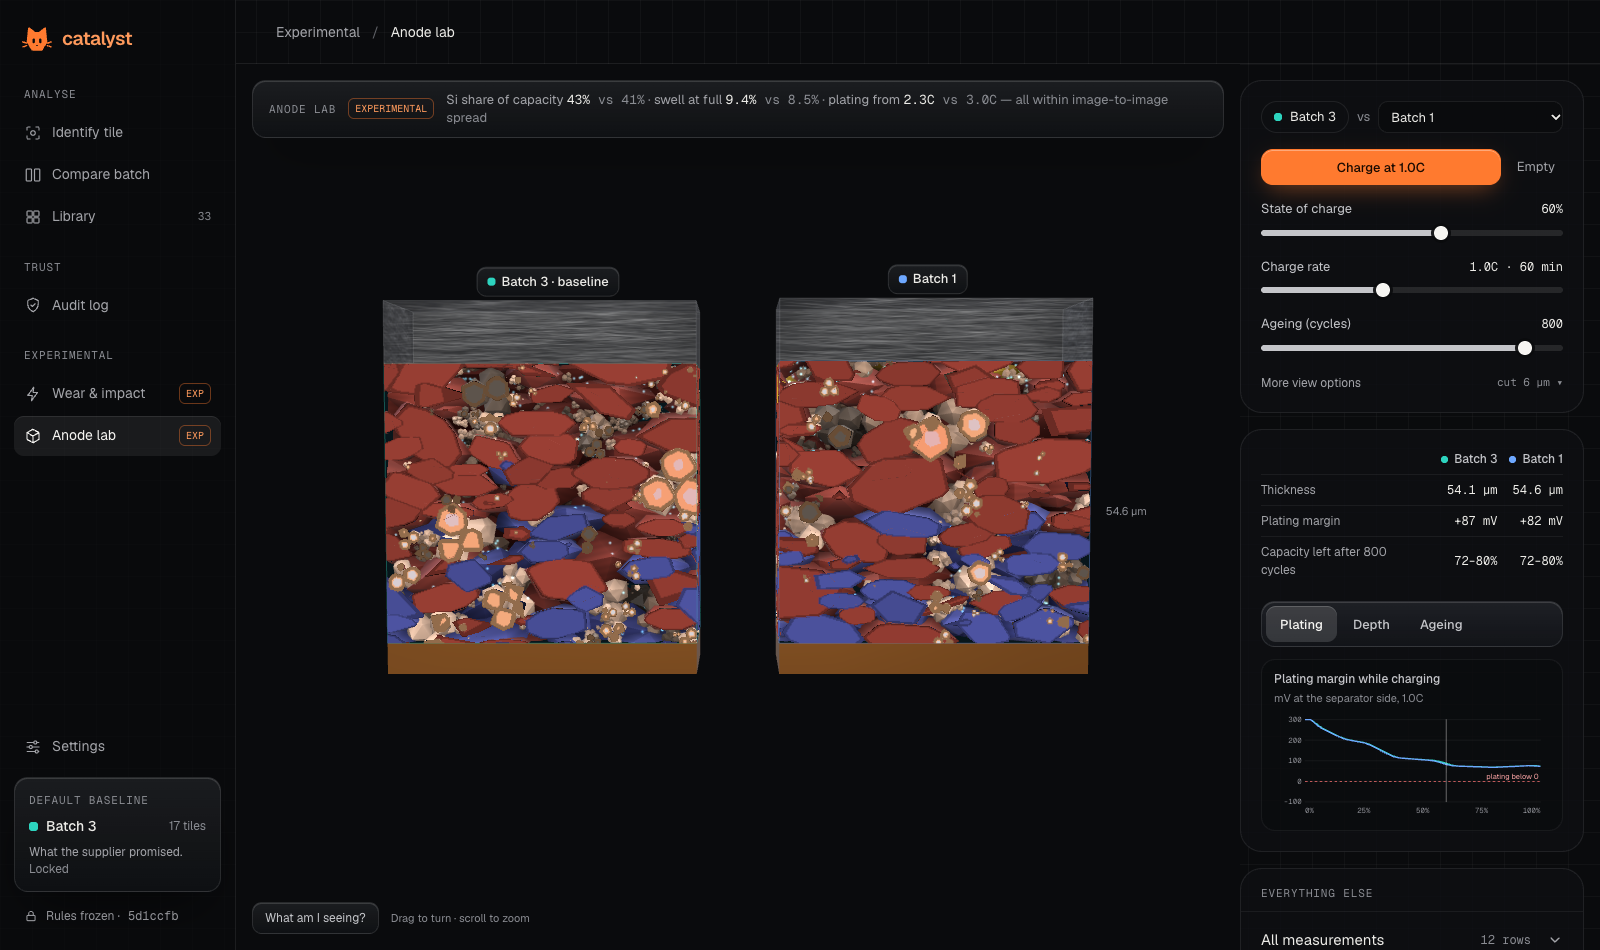
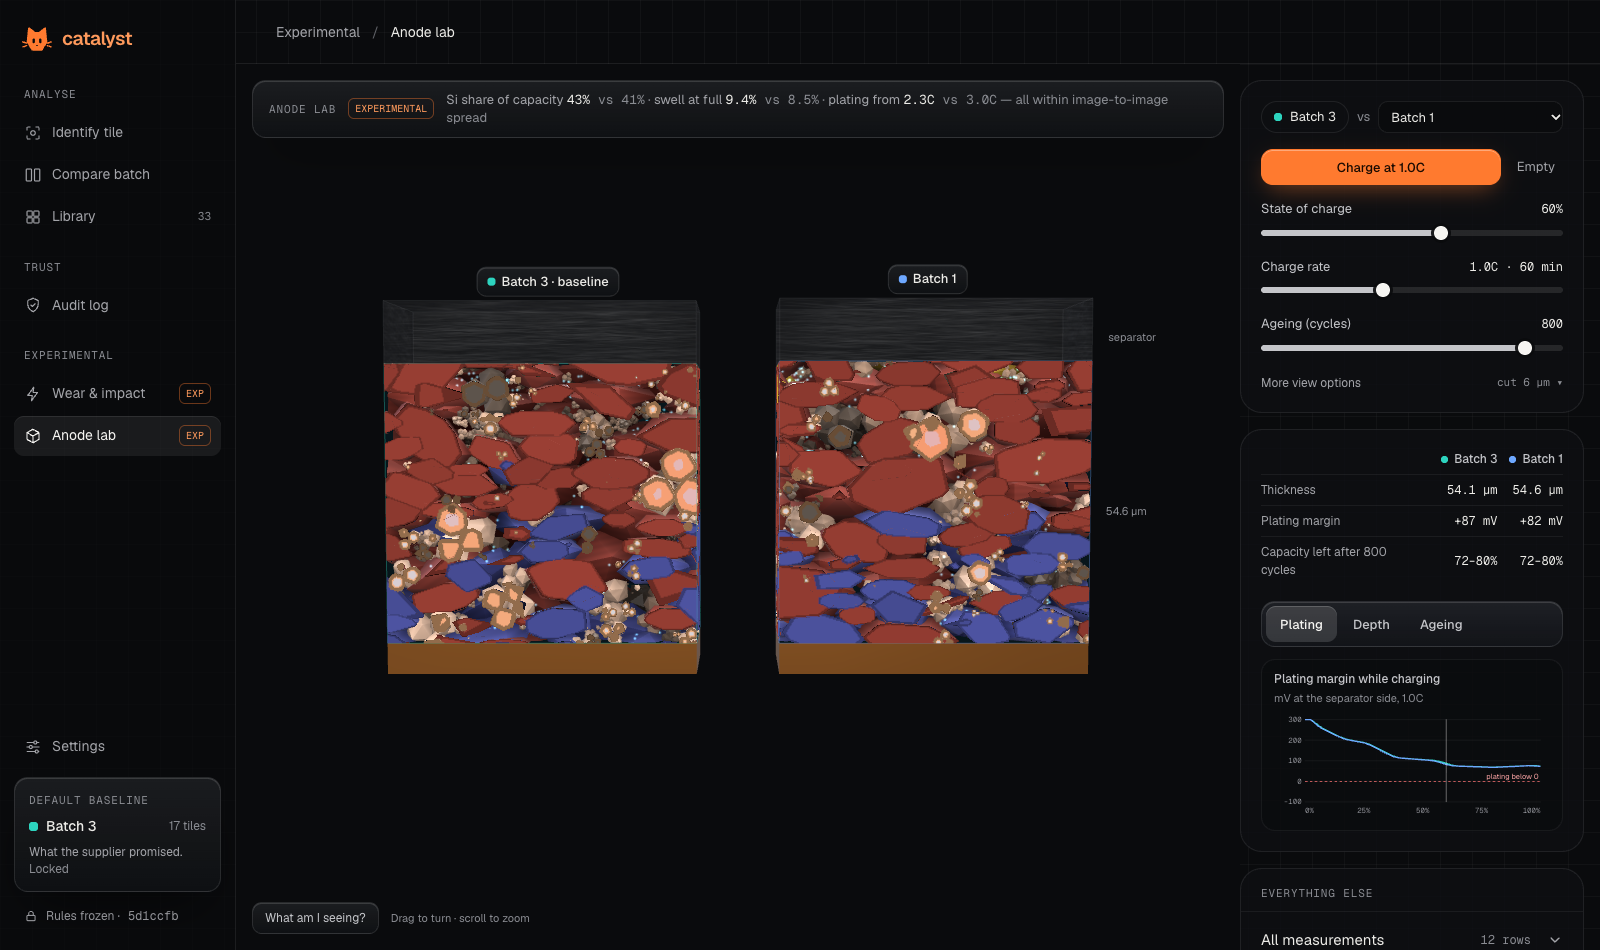
Draw the separator as a faint labelled film: real 12 um scale, but no longer the brightest block in view.
Generated with [Devin](https://devin.ai)

Changed region(s): [[0.4688, 0.3053, 0.7188, 0.3968], [0.2188, 0.3053, 0.4375, 0.3968]]

diff --git a/web/src/slab/Slab.tsx b/web/src/slab/Slab.tsx
@@ -417,10 +417,10 @@ export function Slab({ model, drive, st, offsetX, color, title, subtitle, labels
 
       <mesh position={[offsetX, H + SEPARATOR_UM / 2, zMid]} scale={[W, SEPARATOR_UM, zFront]}>
         <boxGeometry />
-        <meshStandardMaterial map={separatorTexture()} transparent opacity={0.85} depthWrite={false} roughness={0.9} side={THREE.DoubleSide} />
+        <meshStandardMaterial map={separatorTexture()} transparent opacity={0.3} depthWrite={false} roughness={0.9} side={THREE.DoubleSide} />
       </mesh>
       <lineSegments geometry={edges} position={[offsetX, H + SEPARATOR_UM / 2, zMid]} scale={[W, SEPARATOR_UM, zFront]}>
-        <lineBasicMaterial color={COLORS.separator} transparent opacity={0.12} />
+        <lineBasicMaterial color={COLORS.separator} transparent opacity={0.06} />
       </lineSegments>
       <mesh position={[offsetX, -COPPER_UM / 2, zMid]} scale={[W, COPPER_UM, zFront]}>
         <boxGeometry />
@@ -441,6 +441,9 @@ export function Slab({ model, drive, st, offsetX, color, title, subtitle, labels
       </Html>
       {labels && (
         <>
+          <Html portal={labelRoot} position={[offsetX + W / 2 + 3, H + SEPARATOR_UM / 2, front]}>
+            <div className={labelStyle}>separator</div>
+          </Html>
           <Html portal={labelRoot} position={[offsetX + W / 2 + 3, H / 2, front]}>
             <div className={labelStyle}>{H.toFixed(1)} µm</div>
           </Html>
